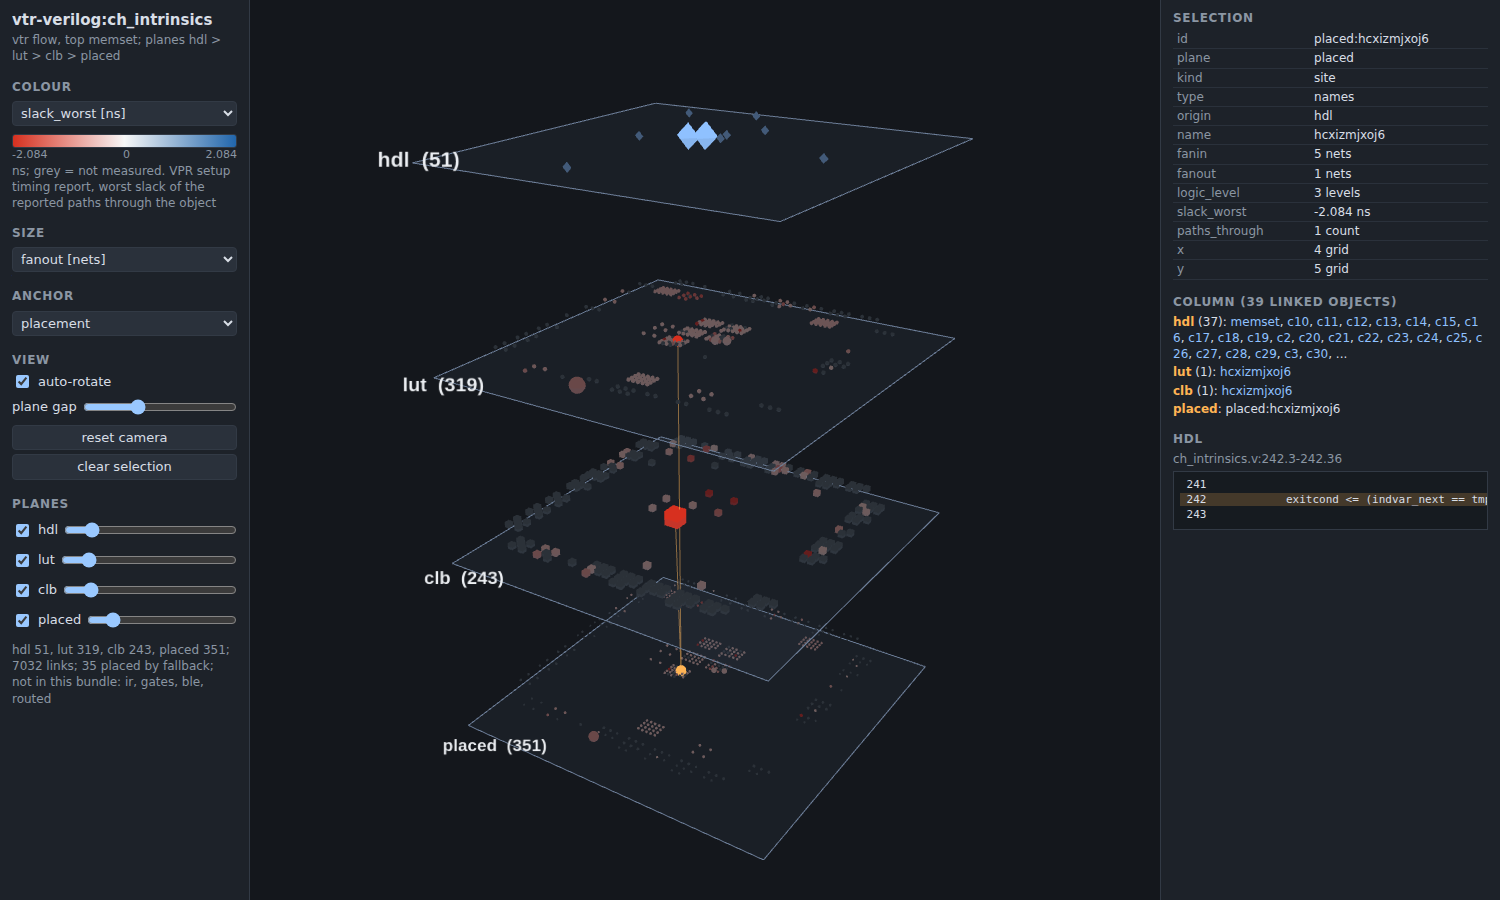
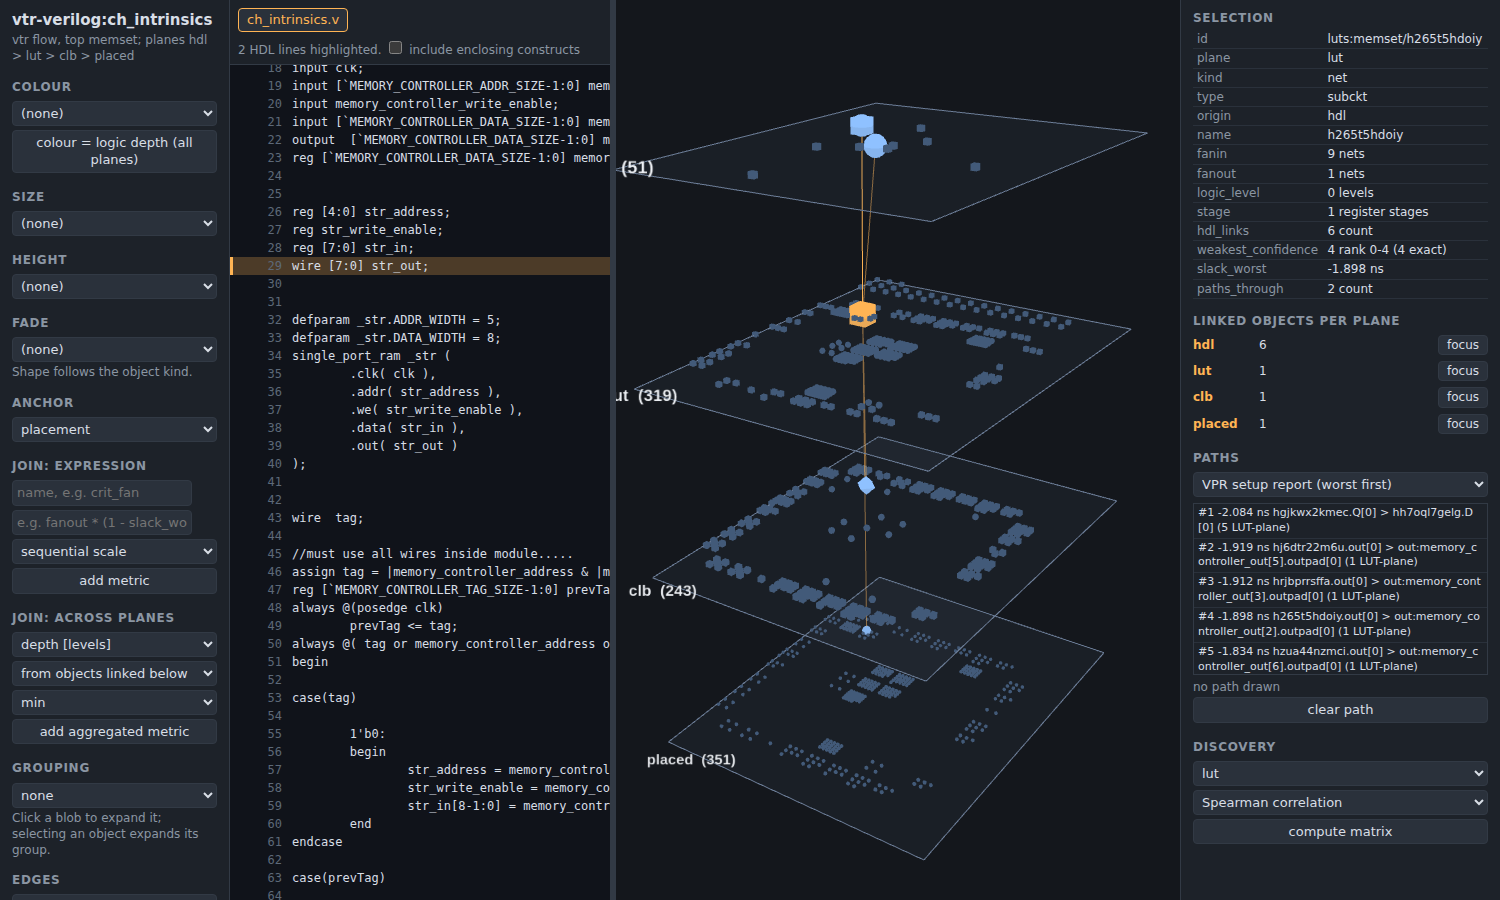
o3viz M4: docs, screenshots, smaller highlight scale
Claude-Session: https://claude.ai/code/session_01P6EspARcYHiCHb7DjCq7ya

diff --git a/wyrd/o3viz/web/app.js b/wyrd/o3viz/web/app.js
@@ -226,7 +226,7 @@ function refreshPlane(p) {
     let s = r0;
     if (sz) s *= sz[i] === null ? 0.5 : 0.6 + 1.8 * norm(S.size, sz[i]);
     const st = stateOf(id);
-    if (st === 2) s *= S.brush ? 1.7 : 2.4; else if (st === 3) s *= 1.9; else if (st === 1) s *= 1.5; else if (st === -1) s *= 0.55;
+    if (st === 2) s *= S.brush ? 1.5 : 2.4; else if (st === 3) s *= 1.3; else if (st === 1) s *= S.brush ? 1.15 : 1.5; else if (st === -1) s *= 0.55;
     if (hiddenByGroup(p, i)) s = 1e-4;
     dummy.scale.setScalar(s);
     dummy.updateMatrix();

diff --git a/docs/user/viz.md b/docs/user/viz.md
@@ -24,17 +24,47 @@ deterministic: exporting twice gives the same bytes. A value that was not measur
 
 ## View it
 
-    wyrd viz serve design.o3viz            # prints http://127.0.0.1:8765/ ; open it in a browser
+    wyrd viz serve design.o3viz            # prints http://127.0.0.1:8765/ (use --port N for another) ; open it in a browser
 
 Everything is served locally; three.js is vendored (`wyrd/o3viz/web/vendor`, MIT), nothing is fetched from a
 network.
 
-- Drag to rotate, wheel to zoom, right-drag to pan; "auto-rotate" and "plane gap" are in the left panel.
-- Colour: any metric. Slack uses a diverging scale (red is negative). Grey means not measured.
+- Source pane (left, 40% of the width; drag the divider to resize): the whole HDL file with line numbers, tabs
+  for several files. Click a line, or drag or shift-click a range. The constructs whose span covers the lines
+  (the innermost ones; tick "include enclosing constructs" for all) are selected, then every linked object on
+  the planes below (LUTs, clusters, placed atoms) through the links. They are highlighted in 3D, the rest is
+  dimmed, and the right panel shows one count per plane. Clicking an object in 3D does the reverse: its HDL lines
+  are highlighted in the pane and scrolled to.
+- Drag to rotate, right-drag to pan, "auto-rotate" and "plane gap" are in the left panel.
+- Plane control: keys 1 to N focus a plane (the orbit target moves to the plane centre), 0 is the whole stack;
+  the "focus" buttons in the Planes list and in the right panel do the same. The wheel zooms towards the point
+  under the cursor on the focused plane (or the nearest plane when none is focused). Each plane has show,
+  opacity and "solo".
+- Colour: any metric. Slack uses a diverging scale (red is negative). Grey means not measured. "colour = logic
+  depth" sets the colour to `logic_level` on all planes; the legend lists, per plane, how many objects have a
+  measured value and the range, and says "no measured value" when a plane has none.
 - Size: any metric.
-- Click an object: the right panel shows its fields and metrics, the objects of its column per plane (click one
-  to jump), and the HDL span with the source lines. Click empty space to clear.
-- Planes can be hidden and their opacity changed.
+- Click an object: the right panel shows its fields and metrics and one line per plane (count of linked objects
+  and a focus button). Click empty space to clear.
+
+![HDL line selected](images/o3viz-line.png)
+
+![colour = logic depth](images/o3viz-depth.png)
+
+### Paths
+
+The Paths section draws combinational paths as polylines through the objects they pass on the lut and placed
+planes, and highlights the HDL lines they come from. The source is always labelled.
+
+- VPR setup report: the reported setup paths (`report_timing.setup.rpt`, kept in `paths.json`) sorted by slack,
+  worst first. Click one to draw it. Only the data-arrival part is used; clock-network pins are left out.
+- Netlist cone: from the selected objects (an object, a line, a path), the fan-in, fan-out or both cones in the
+  LUT netlist (`edges/lut.json`), with a depth limit. The cone stops at flip-flops, I/O and hard blocks, which
+  are shown as its boundary. It follows the selection while this source is chosen.
+
+![VPR path](images/o3viz-paths.png)
+
+![netlist cone](images/o3viz-cone.png)
 
 ## What a plane is
 
@@ -98,7 +128,8 @@ is the one function `loadBundle` if a design of 100x this size needs it.
 ## Metrics
 
 Measured by Odin III's BLIF or VPR files, never invented: `fanin`, `fanout`, `logic_level` (LUT depth from
-inputs and register or block outputs), `stage`, `slack_worst` and `paths_through` (VPR's worst 100 setup paths: the
+inputs and register or block outputs; on `clb` the max over the atoms inside, on `hdl` the max over the LUTs
+linked below; a cluster or construct with no measured member stays grey), `stage`, `slack_worst` and `paths_through` (VPR's worst 100 setup paths: the
 worst slack of the paths through the object; objects on no reported path stay grey), `atoms`, `luts_inside`,
 `ffs_inside`, `x`, `y`, and from the step files `depth`, `children`, `span_lines`, `luts_below`, `hdl_links` and
 `weakest_confidence`.
@@ -106,5 +137,5 @@ worst slack of the paths through the object; objects on no reported path stay gr
 ## Test
 
     .venv/bin/python -m unittest tests.test_o3viz tests.test_o3viz_viewer -v
-    node --test tests/js/expr.test.mjs                                # the expression language
+    node --test tests/js/expr.test.mjs tests/js/select.test.mjs       # expression language, line and cone selection
     python tools/o3viz_shot.py BUNDLE out.png --colour slack_worst   # needs playwright + chromium
